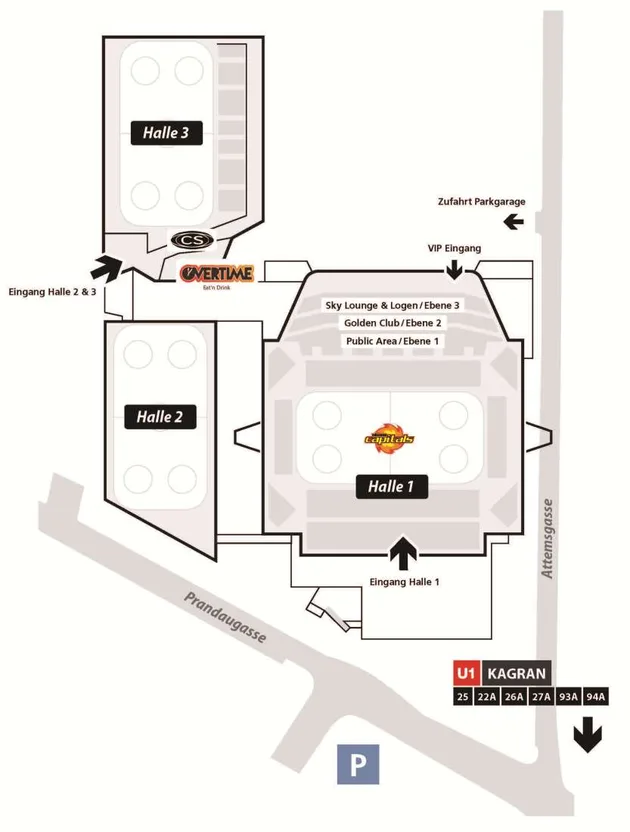
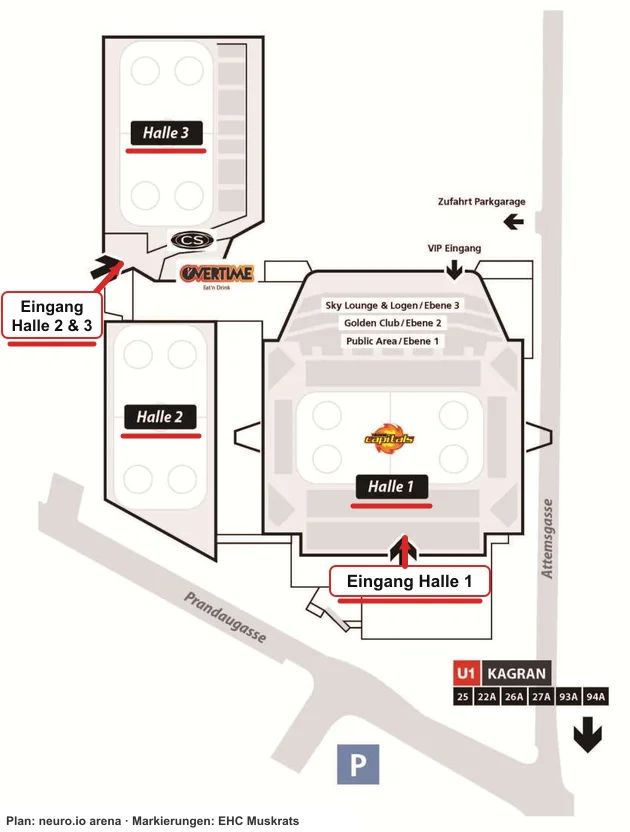
Hall plan: red markings for halls and entrances, larger entrance labels, credit (original: neuro.io arena)

diff --git a/src/config/venues.ts b/src/config/venues.ts
@@ -12,7 +12,7 @@ export interface Venue {
   parking?: { de: string[]; en: string[] };
   /** Your own tips (entrance, hall, changing rooms). One line per entry. Empty = not shown. */
   notes?: { de: string[]; en: string[] };
-  /** Official site/hall plan. `local` is our copy (shown with a source credit, cleared with the club); `page` is the source. */
+  /** Official site/hall plan. `local` is our copy with red markings (scripts/annotate-hall-plan.cjs), shown with a source credit; `page` is the source. */
   hallPlan?: { page: string; image: string; local?: { src: string; width: number; height: number } };
   /** How to find each hall. Matched against the hall part of the WEHV venue ("Haupthalle", "Halle 2"). */
   halls?: { key: string; match: RegExp; label: string; de: string; en: string }[];
